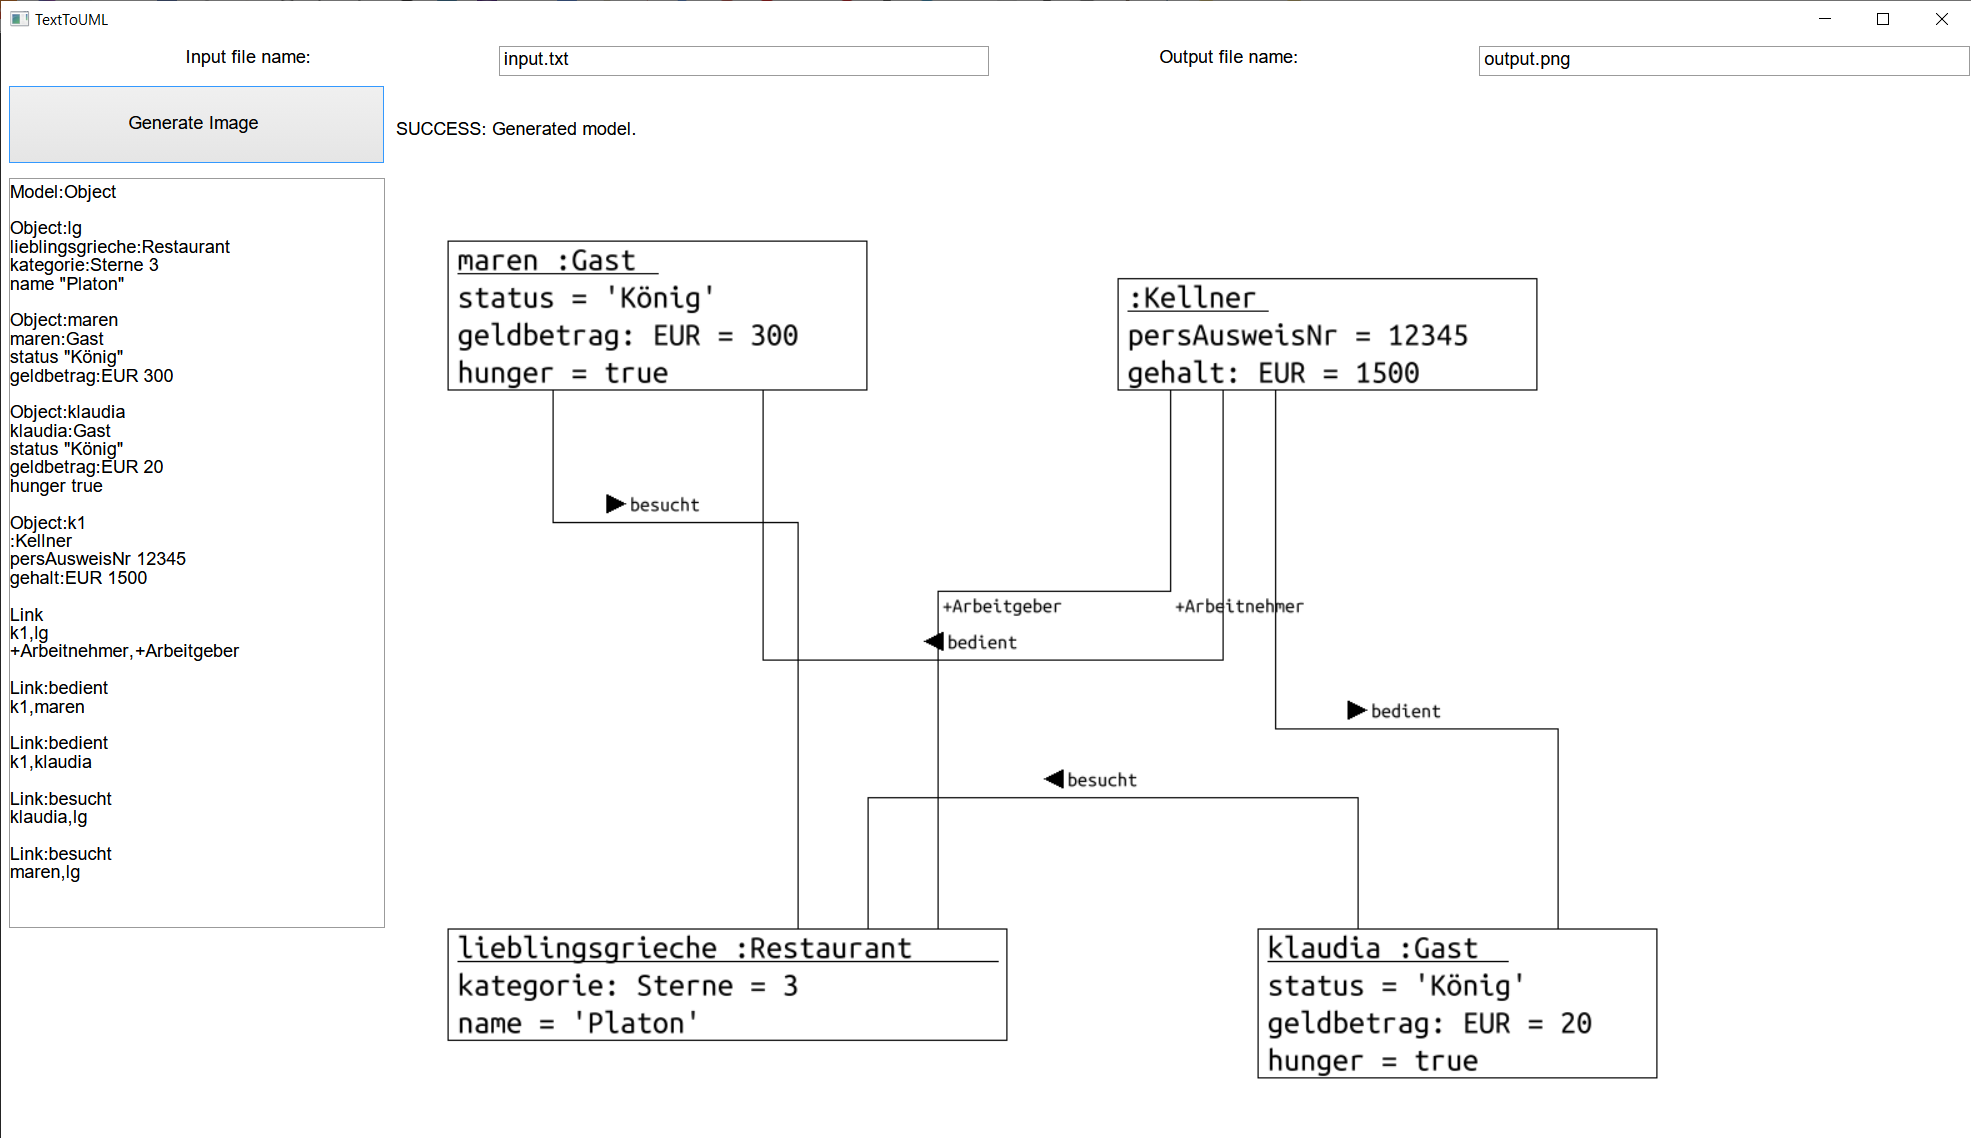
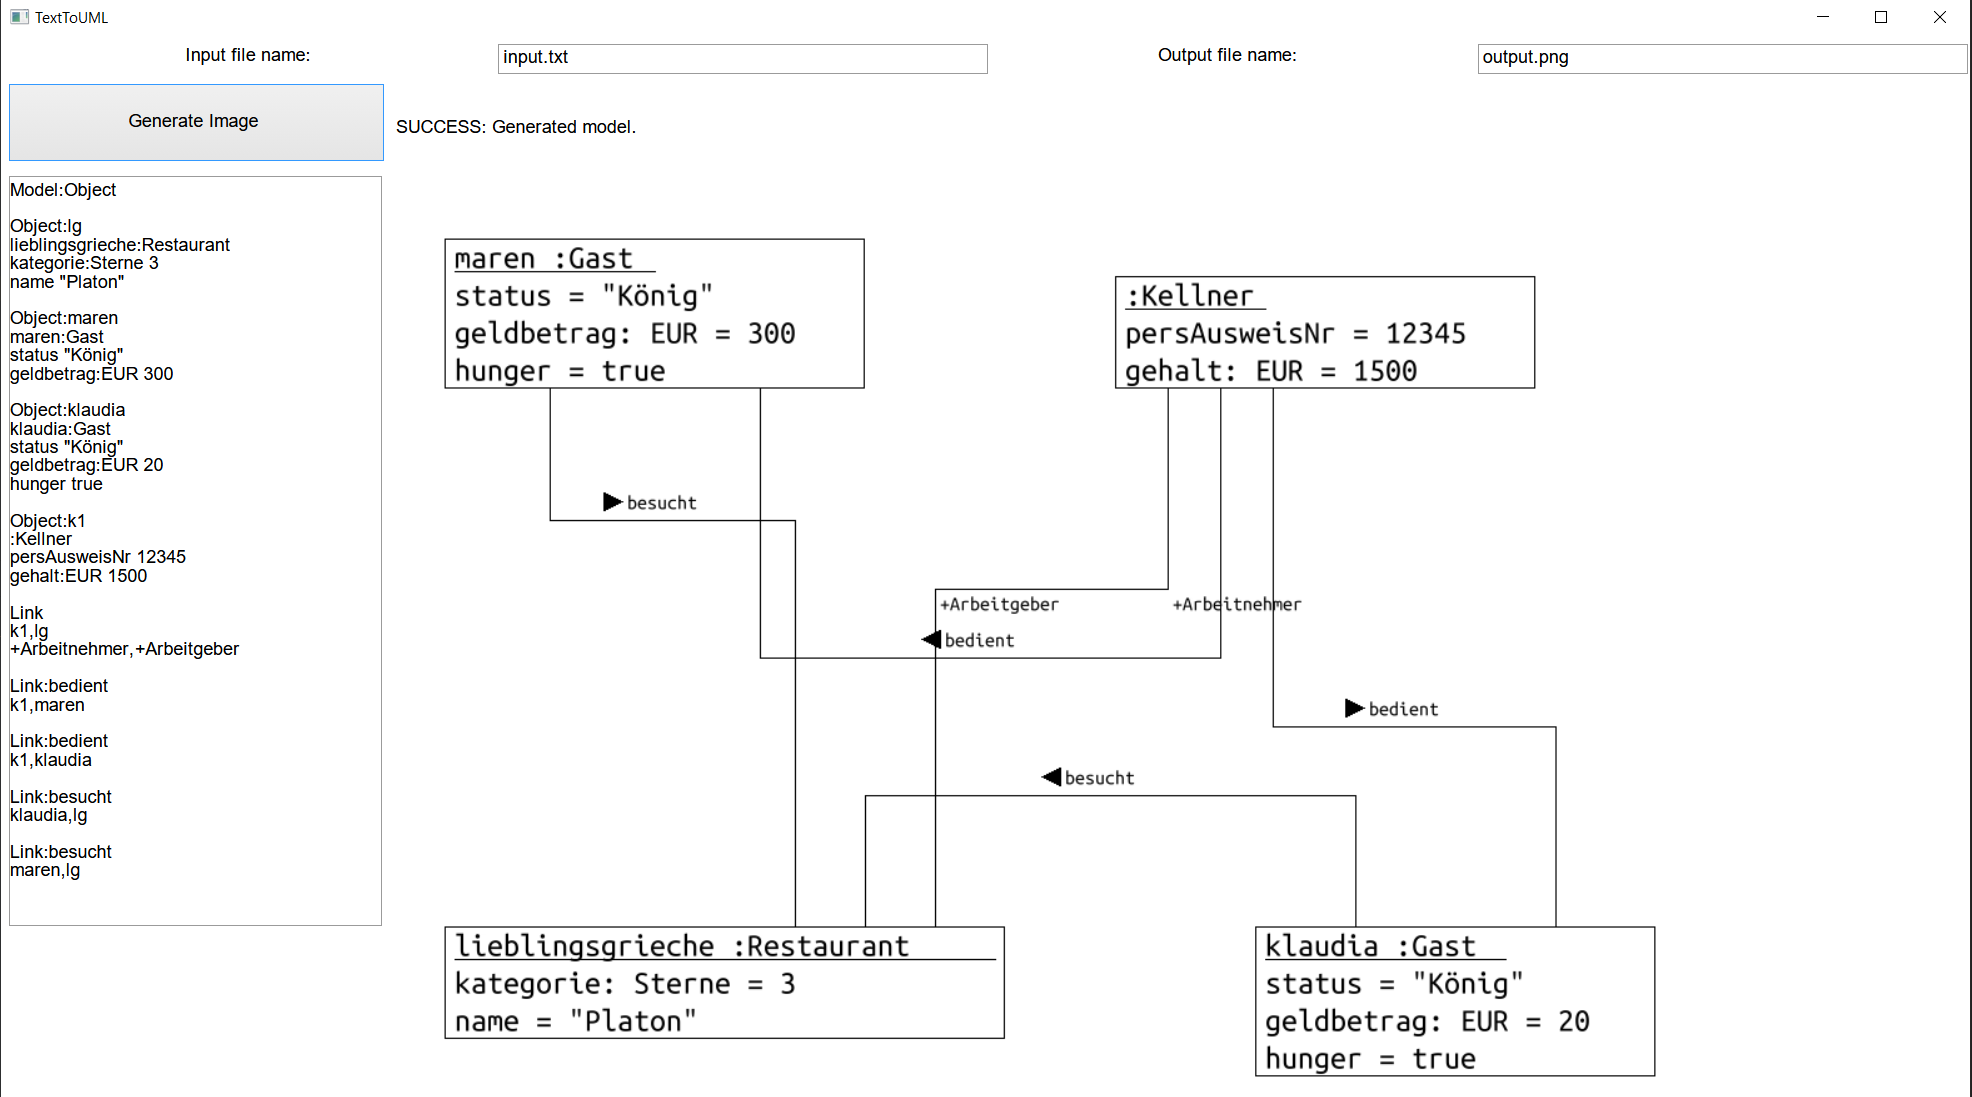
Update pics

diff --git a/src/parser.rs b/src/parser.rs
@@ -99,13 +99,13 @@ pub fn parse_model(lines: &[String]) -> Result<ModelContainer, ParseError> {
     let mut links: Vec<Link> = Vec::new();
     let mut content_lines: Vec<String> = Vec::new();
     content_lines.push(String::from("kategorie: Sterne = 3"));
-    content_lines.push(String::from("name = 'Platon'"));
+    content_lines.push(String::from("name = \"Platon\""));
     let mut content_lines2: Vec<String> = Vec::new();
-    content_lines2.push(String::from("status = 'König'"));
+    content_lines2.push(String::from("status = \"König\""));
     content_lines2.push(String::from("geldbetrag: EUR = 300"));
     content_lines2.push(String::from("hunger = true"));
     let mut content_lines3: Vec<String> = Vec::new();
-    content_lines3.push(String::from("status = 'König'"));
+    content_lines3.push(String::from("status = \"König\""));
     content_lines3.push(String::from("geldbetrag: EUR = 20"));
     content_lines3.push(String::from("hunger = true"));
     let mut content_lines4: Vec<String> = Vec::new();
